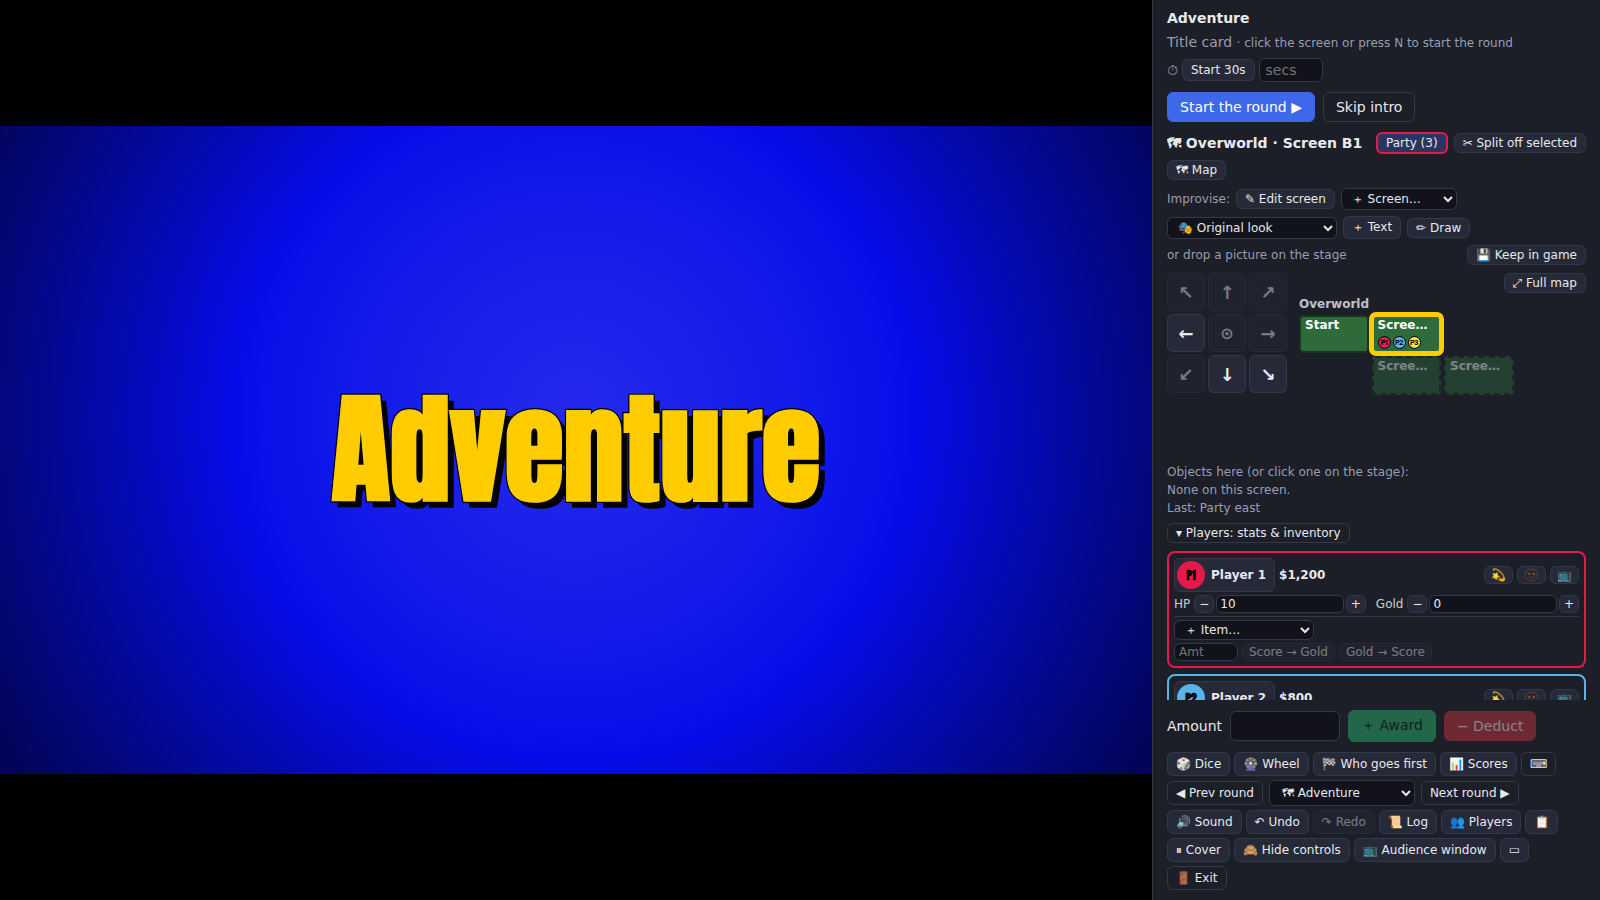
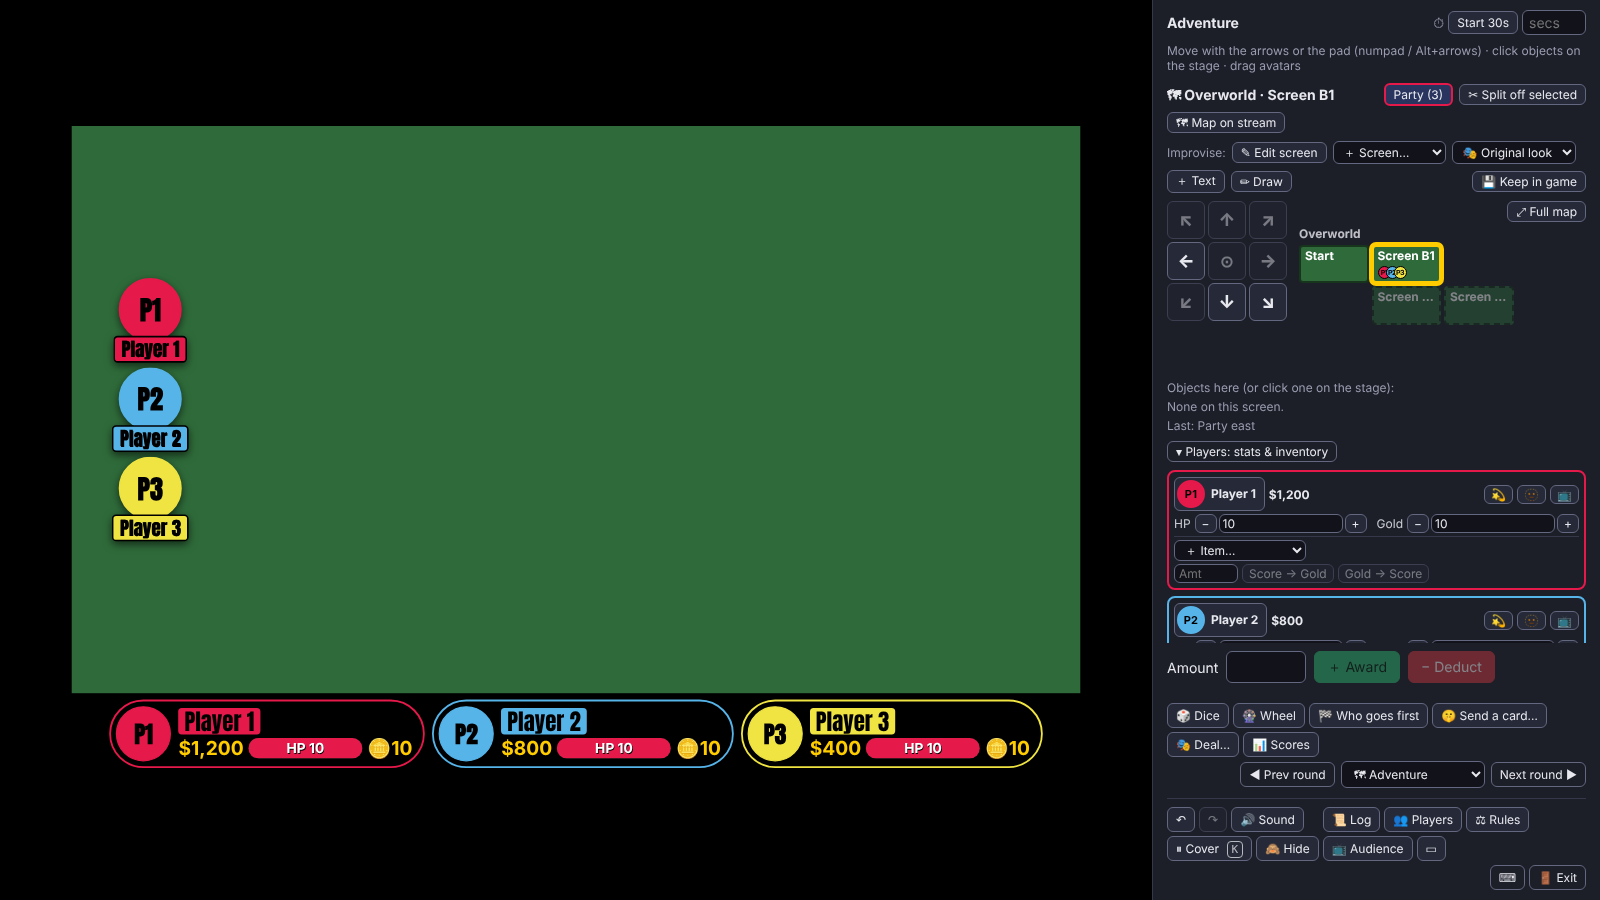
README pictures of the app as it is now; the screenshot script runs to the end again
Claude-Session: https://claude.ai/code/session_018ZD85mMPXmGHQpZ9AwbZdd

diff --git a/CHANGELOG.md b/CHANGELOG.md
@@ -21,6 +21,7 @@ in plain words for the people who make and host games. Anything committed but no
 
 ### Changed
 
+- The README's pictures show the app as it is now (the host panel's bar, ± Adjust score, the ⋯ menu, 🤫 Cards).
 - The in-game ⌨ / `?` list starts with the keys of the round being played (RPG, Board game, Final, Tiebreaker clue, Slides round), so they're on its first screen in the host panel beside the stage. It always started with Everywhere, the RPG keys six screens down.
 
 ### Fixed
